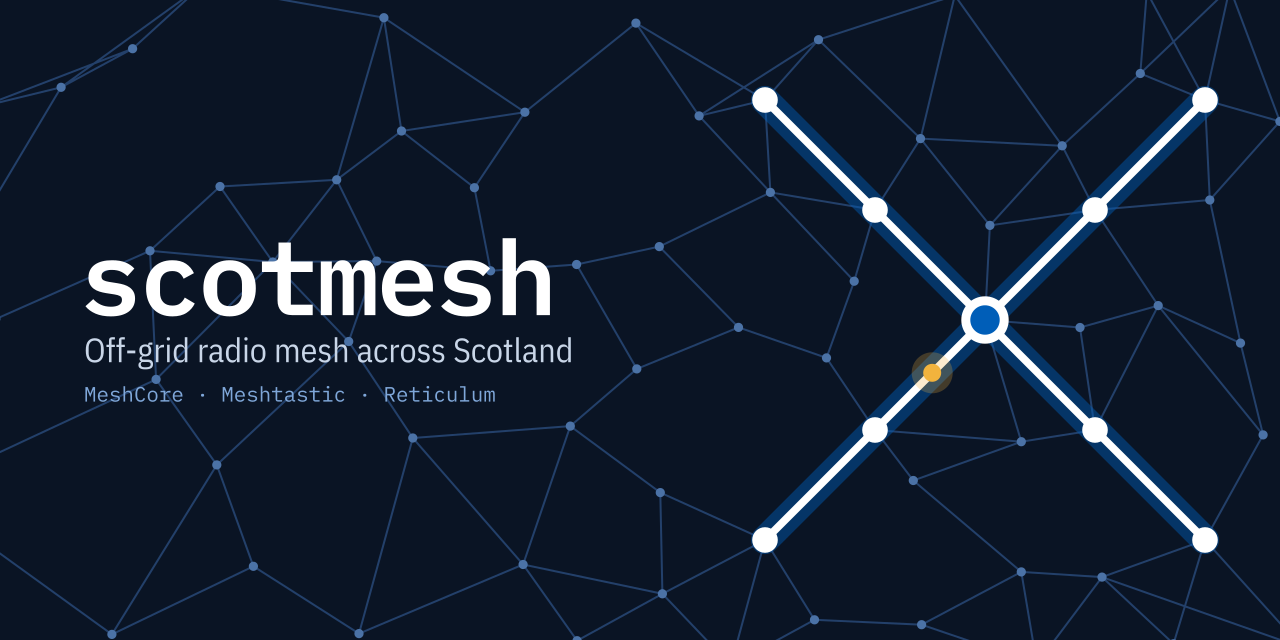
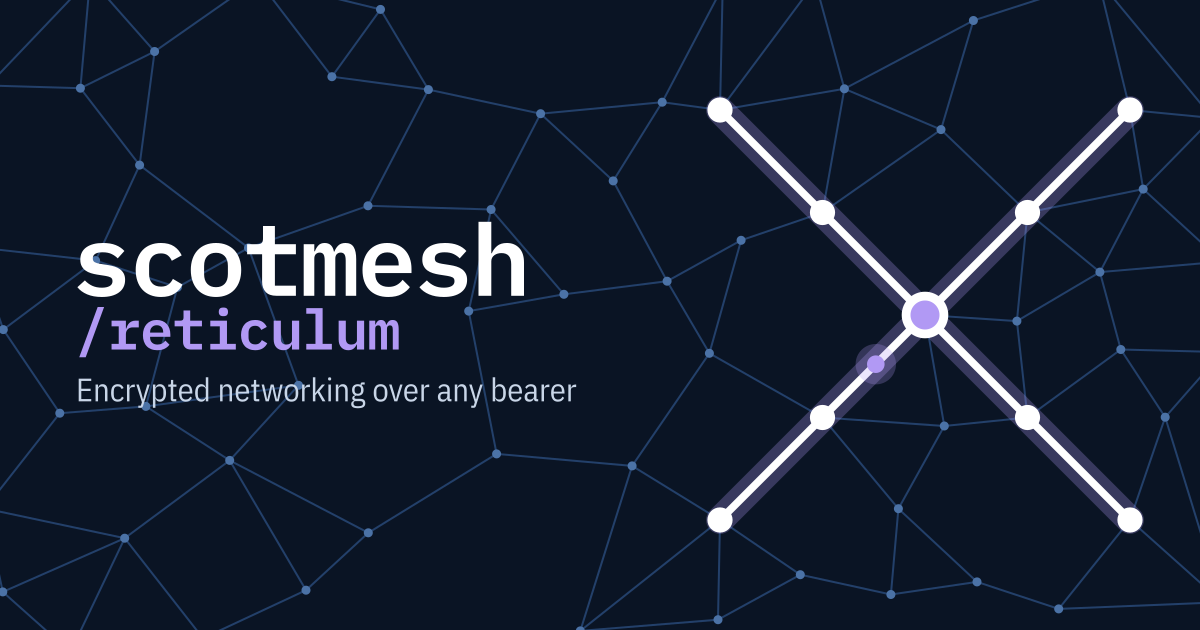
Use the Reticulum version of the brand
Reticulum lockup in the header, Reticulum favicon, header art and link
preview, violet links and button, and the status strip in brand colours
and type.

Claude-Session: https://claude.ai/code/session_01JprxoQSse8Zubc2WW64tny

diff --git a/index.html b/index.html
@@ -5,6 +5,7 @@
 <meta name="viewport" content="width=device-width, initial-scale=1">
 <title>ScotMesh Backbone — public Reticulum transport node for Scotland</title>
 <link rel="icon" href="/favicon.svg" type="image/svg+xml">
+<link rel="apple-touch-icon" href="/apple-touch-icon.png">
 <meta name="description" content="ScotMesh Backbone: a public Reticulum transport node in Scotland. TCP rns.scotmesh.net:4242, I2P, chat hub, LXMF propagation node, Nomad Network node and the ScotMesh LoRa settings.">
 <meta name="theme-color" content="#0A1424">
 <meta property="og:title" content="ScotMesh Backbone">
@@ -22,7 +23,7 @@
 @font-face{font-family:"IBM Plex Sans Condensed";font-weight:600;font-style:normal;font-display:swap;src:url(/fonts/ibm-plex-sans-condensed-600.woff2) format("woff2")}
 :root{
   --bg:#0A1424; --card:#101C30; --well:#0C1729; --line:#22324D;
-  --ink:#E6EDF7; --muted:#8FA2BD; --saltire:#005EB8; --saltire-deep:#004C96; --link:#7FB2EE;
+  --ink:#E6EDF7; --muted:#8FA2BD; --saltire:#005EB8; --saltire-deep:#004C96; --link:#B199F4; --rns:#B199F4; --rns-deep:#6A51A4;
   --up:#22c55e; --down:#ef4444; --warn:#f59e0b; --unknown:#6b7280;
   --mono:"IBM Plex Mono",ui-monospace,Menlo,Consolas,monospace;
   --sans:"IBM Plex Sans Condensed","Roboto Condensed","Arial Narrow",system-ui,sans-serif;
@@ -47,8 +48,7 @@ pre code{background:none;padding:0;white-space:pre}
 .hero{position:relative;padding:2.25rem 2rem 2rem;border:1px solid var(--line);border-radius:6px;overflow:hidden;background:var(--bg) url("/header-mesh.svg") right center/auto 100% no-repeat}
 .hero::before{content:"";position:absolute;inset:0;background:linear-gradient(90deg,var(--bg) 38%,rgba(10,20,36,.55) 62%,rgba(10,20,36,0) 85%);pointer-events:none}
 .hero > *{position:relative}
-.header{display:flex;align-items:center;gap:1.25rem;flex-wrap:wrap}
-.header .mark{width:64px;height:64px;flex:none;border-radius:3px}
+.lockup{display:block;height:58px;width:auto;margin-bottom:1.1rem}
 .subtitle{color:var(--muted);margin:.5rem 0 0;font-size:1.15rem;max-width:60ch}
 @media (max-width:700px){
   .hero{padding:1.5rem 1.25rem;background-size:auto 60%;background-position:right bottom}
@@ -77,8 +77,8 @@ pre code{background:none;padding:0;white-space:pre}
 .way ol li{margin:.3rem 0}
 .way pre{background:#081120}
 .way .more{margin-top:auto;padding-top:.8rem;font-size:.95rem}
-.btn{display:inline-block;background:var(--saltire);color:#fff;text-decoration:none;font-family:var(--mono);font-weight:600;font-size:.95rem;padding:.7rem 1rem;border-radius:4px;transition:background .2s}
-.btn:hover{background:var(--saltire-deep)}
+.btn{display:inline-block;background:var(--rns);color:#0A1424;text-decoration:none;font-family:var(--mono);font-weight:600;font-size:.95rem;padding:.7rem 1rem;border-radius:4px;transition:background .2s}
+.btn:hover{background:#C4B3F7}
 
 .tablewrap{overflow-x:auto;margin-top:1rem}
 table{width:100%;border-collapse:collapse;font-size:.97rem}
@@ -105,12 +105,8 @@ a:focus-visible{outline:2px solid var(--link);outline-offset:2px}
 <div class="wrap">
 
 <header class="hero">
-  <div class="header">
-    <svg class="mark" viewBox="0 0 100 100" aria-label="ScotMesh" role="img"><rect width="100" height="100" fill="#005EB8"/><path d="M24 24L50 9L76 24M76 24L91 50L76 76M76 76L50 91L24 76M24 76L9 50L24 24" fill="none" stroke="#FFFFFF" stroke-opacity="0.32" stroke-width="2.2"/><g fill="#FFFFFF" fill-opacity="0.45"><circle cx="50" cy="9" r="3.2"/><circle cx="91" cy="50" r="3.2"/><circle cx="50" cy="91" r="3.2"/><circle cx="9" cy="50" r="3.2"/></g><path d="M24 24L39 39M76 24L61 39M76 76L61 61M24 76L39 61" fill="none" stroke="#FFFFFF" stroke-width="9" stroke-linecap="round"/><g fill="#FFFFFF"><circle cx="24" cy="24" r="9.5"/><circle cx="76" cy="24" r="9.5"/><circle cx="76" cy="76" r="9.5"/><circle cx="24" cy="76" r="9.5"/></g><circle cx="50" cy="50" r="11" fill="#005EB8" stroke="#FFFFFF" stroke-width="6"/></svg>
-    <div>
-      <h1>ScotMesh Backbone</h1>
-    </div>
-  </div>
+  <img class="lockup" src="/lockup.svg" alt="scotmesh/reticulum" width="208" height="58">
+  <h1>ScotMesh Backbone</h1>
   <p class="subtitle">The public Reticulum transport node for Scotland — open to anyone, no registration, no account.</p>
   <div class="status" id="status" aria-live="polite">
     <span class="dot" id="status-dot"></span>

diff --git a/status.html b/status.html
@@ -6,9 +6,12 @@
 <title>ScotMesh backbone status</title>
 <style>
 /* Embeddable status strip. Transparent background so it sits on whatever page hosts it. */
-:root{color-scheme:light dark;--ink:#222;--muted:#666;--pill:#f3f5f8;--line:#d9dee4;--up:#16a34a;--down:#dc2626;--warn:#d97706;--unknown:#6b7280}
-@media (prefers-color-scheme:dark){:root{--ink:#e8e8e8;--muted:#a3a7ad;--pill:#1f2937;--line:#374151;--up:#22c55e;--down:#ef4444;--warn:#f59e0b}}
-html,body{margin:0;background:transparent;font-family:system-ui,-apple-system,"Segoe UI",sans-serif;font-size:15px;color:var(--ink)}
+@font-face{font-family:"IBM Plex Sans Condensed";font-weight:400;font-display:swap;src:url(/fonts/ibm-plex-sans-condensed-400.woff2) format("woff2")}
+@font-face{font-family:"IBM Plex Sans Condensed";font-weight:600;font-display:swap;src:url(/fonts/ibm-plex-sans-condensed-600.woff2) format("woff2")}
+/* ScotMesh brand: github.com/ScotMesh/branding */
+:root{color-scheme:light dark;--ink:#0A1424;--muted:#4A5D78;--pill:#E6EDF7;--line:#D3DDEA;--up:#16a34a;--down:#dc2626;--warn:#d97706;--unknown:#6b7280}
+@media (prefers-color-scheme:dark){:root{--ink:#E6EDF7;--muted:#8FA2BD;--pill:#101C30;--line:#22324D;--up:#22c55e;--down:#ef4444;--warn:#f59e0b}}
+html,body{margin:0;background:transparent;font-family:"IBM Plex Sans Condensed","Roboto Condensed","Arial Narrow",system-ui,sans-serif;font-size:16px;color:var(--ink)}
 .row{display:flex;flex-wrap:wrap;align-items:center;gap:.5rem .9rem;padding:2px 0}
 .pill{display:inline-flex;align-items:center;gap:.5rem;background:var(--pill);border:1px solid var(--line);border-radius:999px;padding:.3rem .9rem .3rem .55rem;font-weight:600}
 .dot{width:.65rem;height:.65rem;border-radius:50%;background:var(--unknown);flex:none}

diff --git a/README.md b/README.md
@@ -1,4 +1,4 @@
-![ScotMesh](https://raw.githubusercontent.com/ScotMesh/branding/main/social/readme-header.png)
+![ScotMesh](https://raw.githubusercontent.com/ScotMesh/branding/main/networks/reticulum/readme-header.png)
 
 # rns.scotmesh.net
 
@@ -6,6 +6,6 @@ Source for [rns.scotmesh.net](https://rns.scotmesh.net/). Static HTML served by 
 
 Deploy by copying everything except this README and `.git` into the site's web root.
 
-`status.json` is not in this repo. It is written on the server every 2 minutes from `rnstatus -j` and systemd, and the page reads it from its own origin (scotmesh.net reads it cross-origin, so keep CORS open on it).
+`status.json` is not in this repo. It is written on the server every 2 minutes from `rnstatus -j` and systemd, and the page reads it from its own origin (scotmesh.net reads it cross-origin, so keep CORS open on it). `status.html` is the embeddable status strip built from the same file.
 
 Brand assets (logo, colours, fonts) come from [ScotMesh/branding](https://github.com/ScotMesh/branding).
